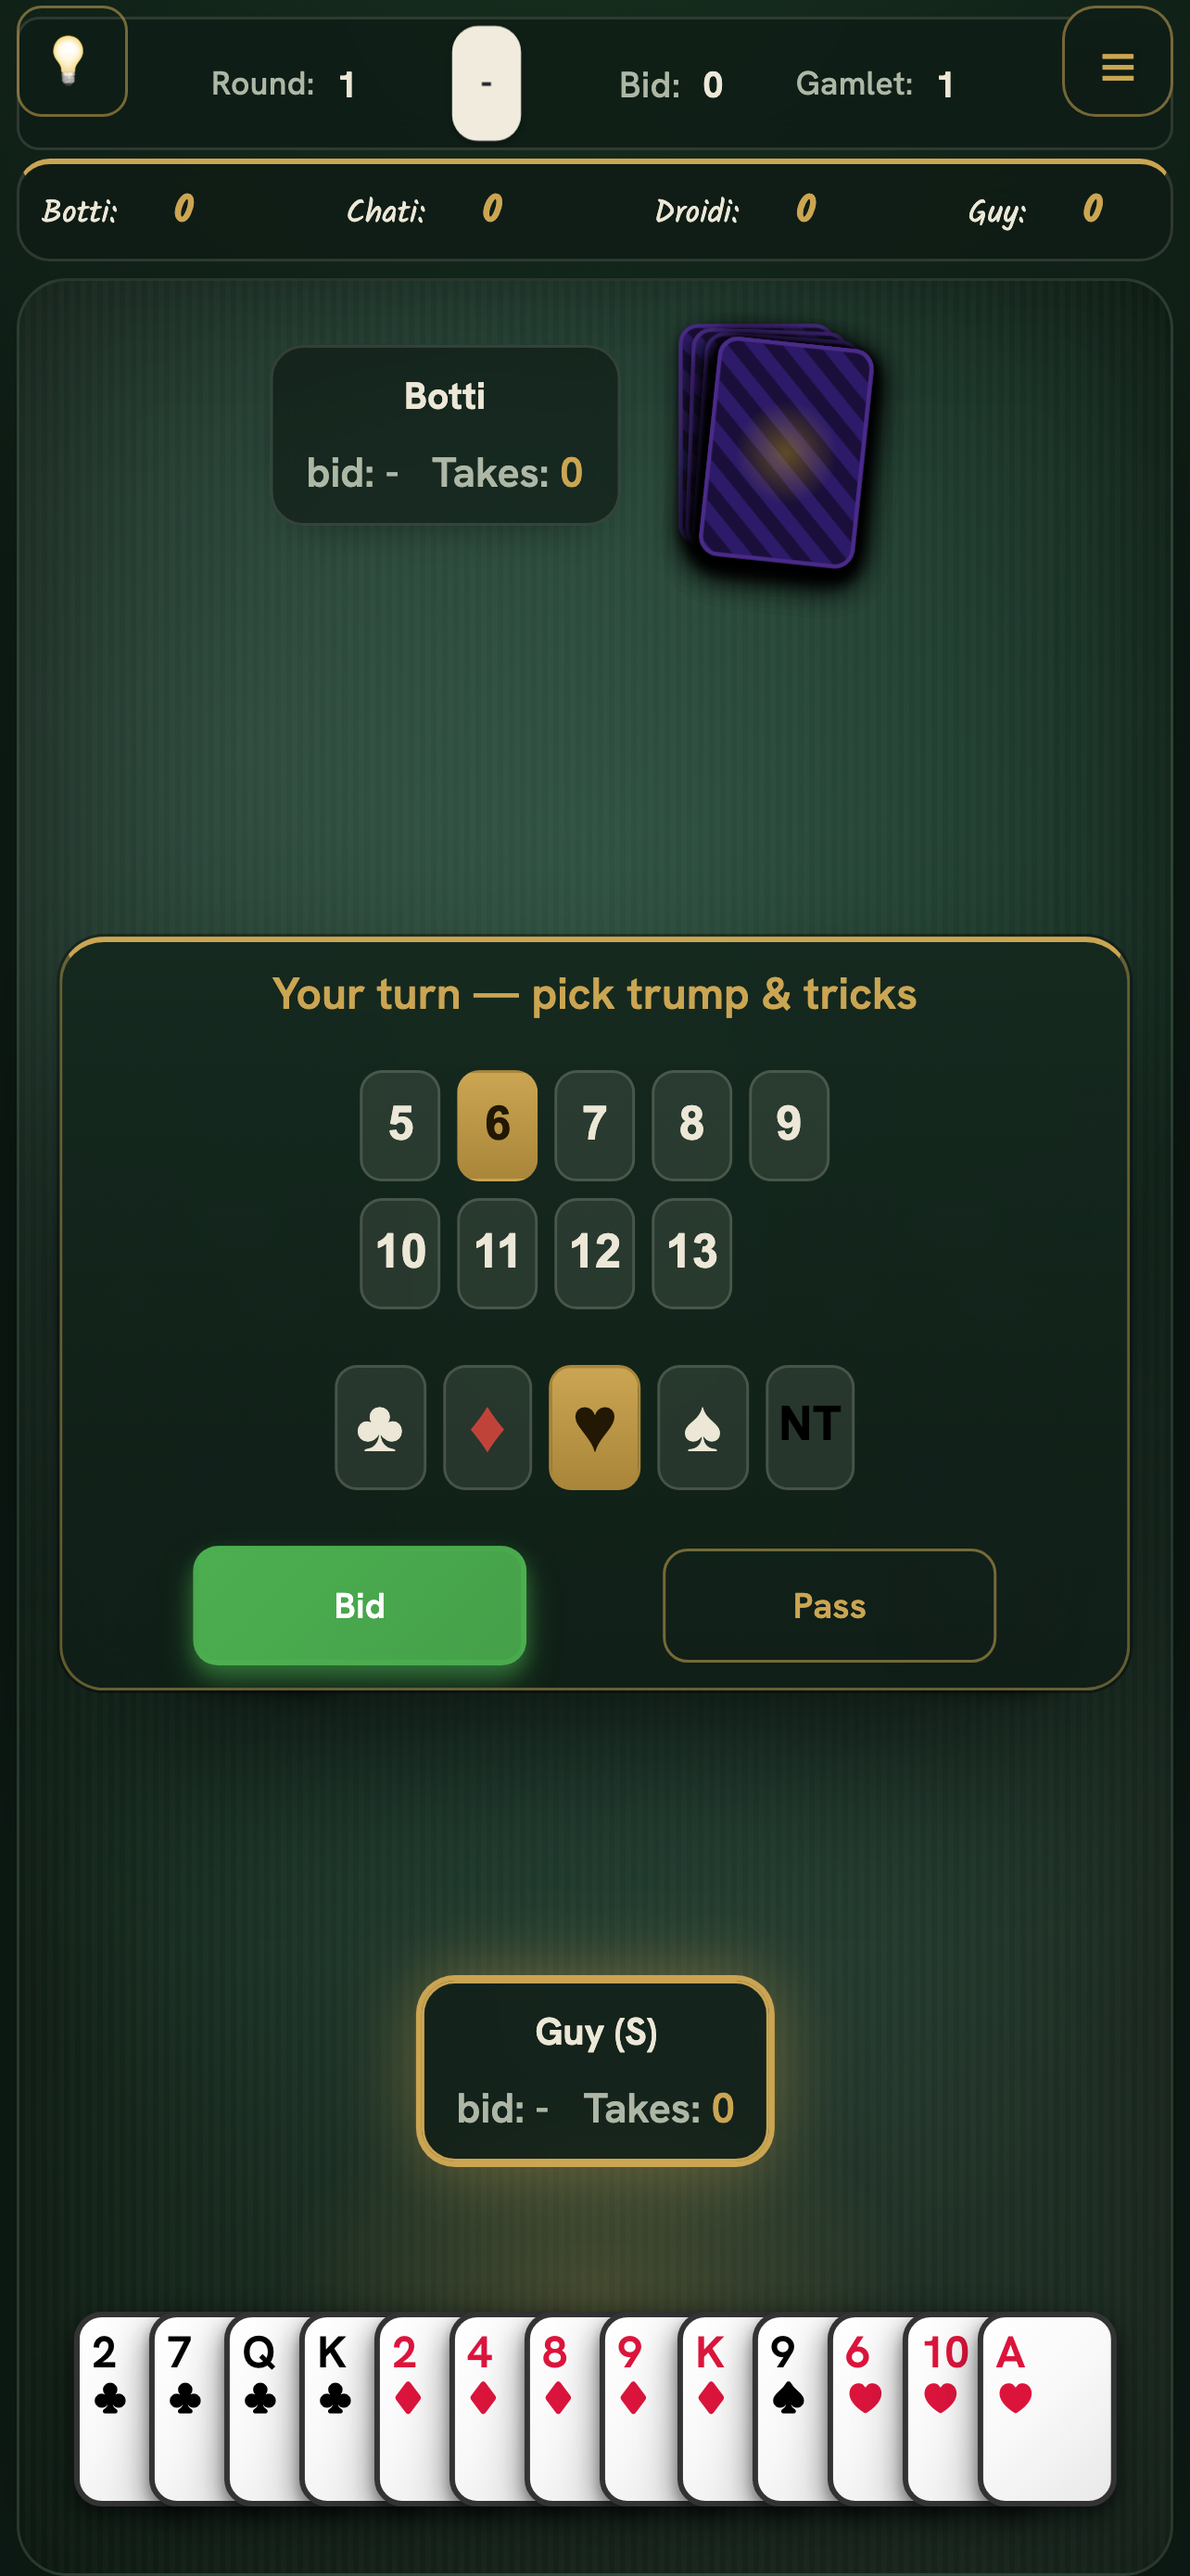
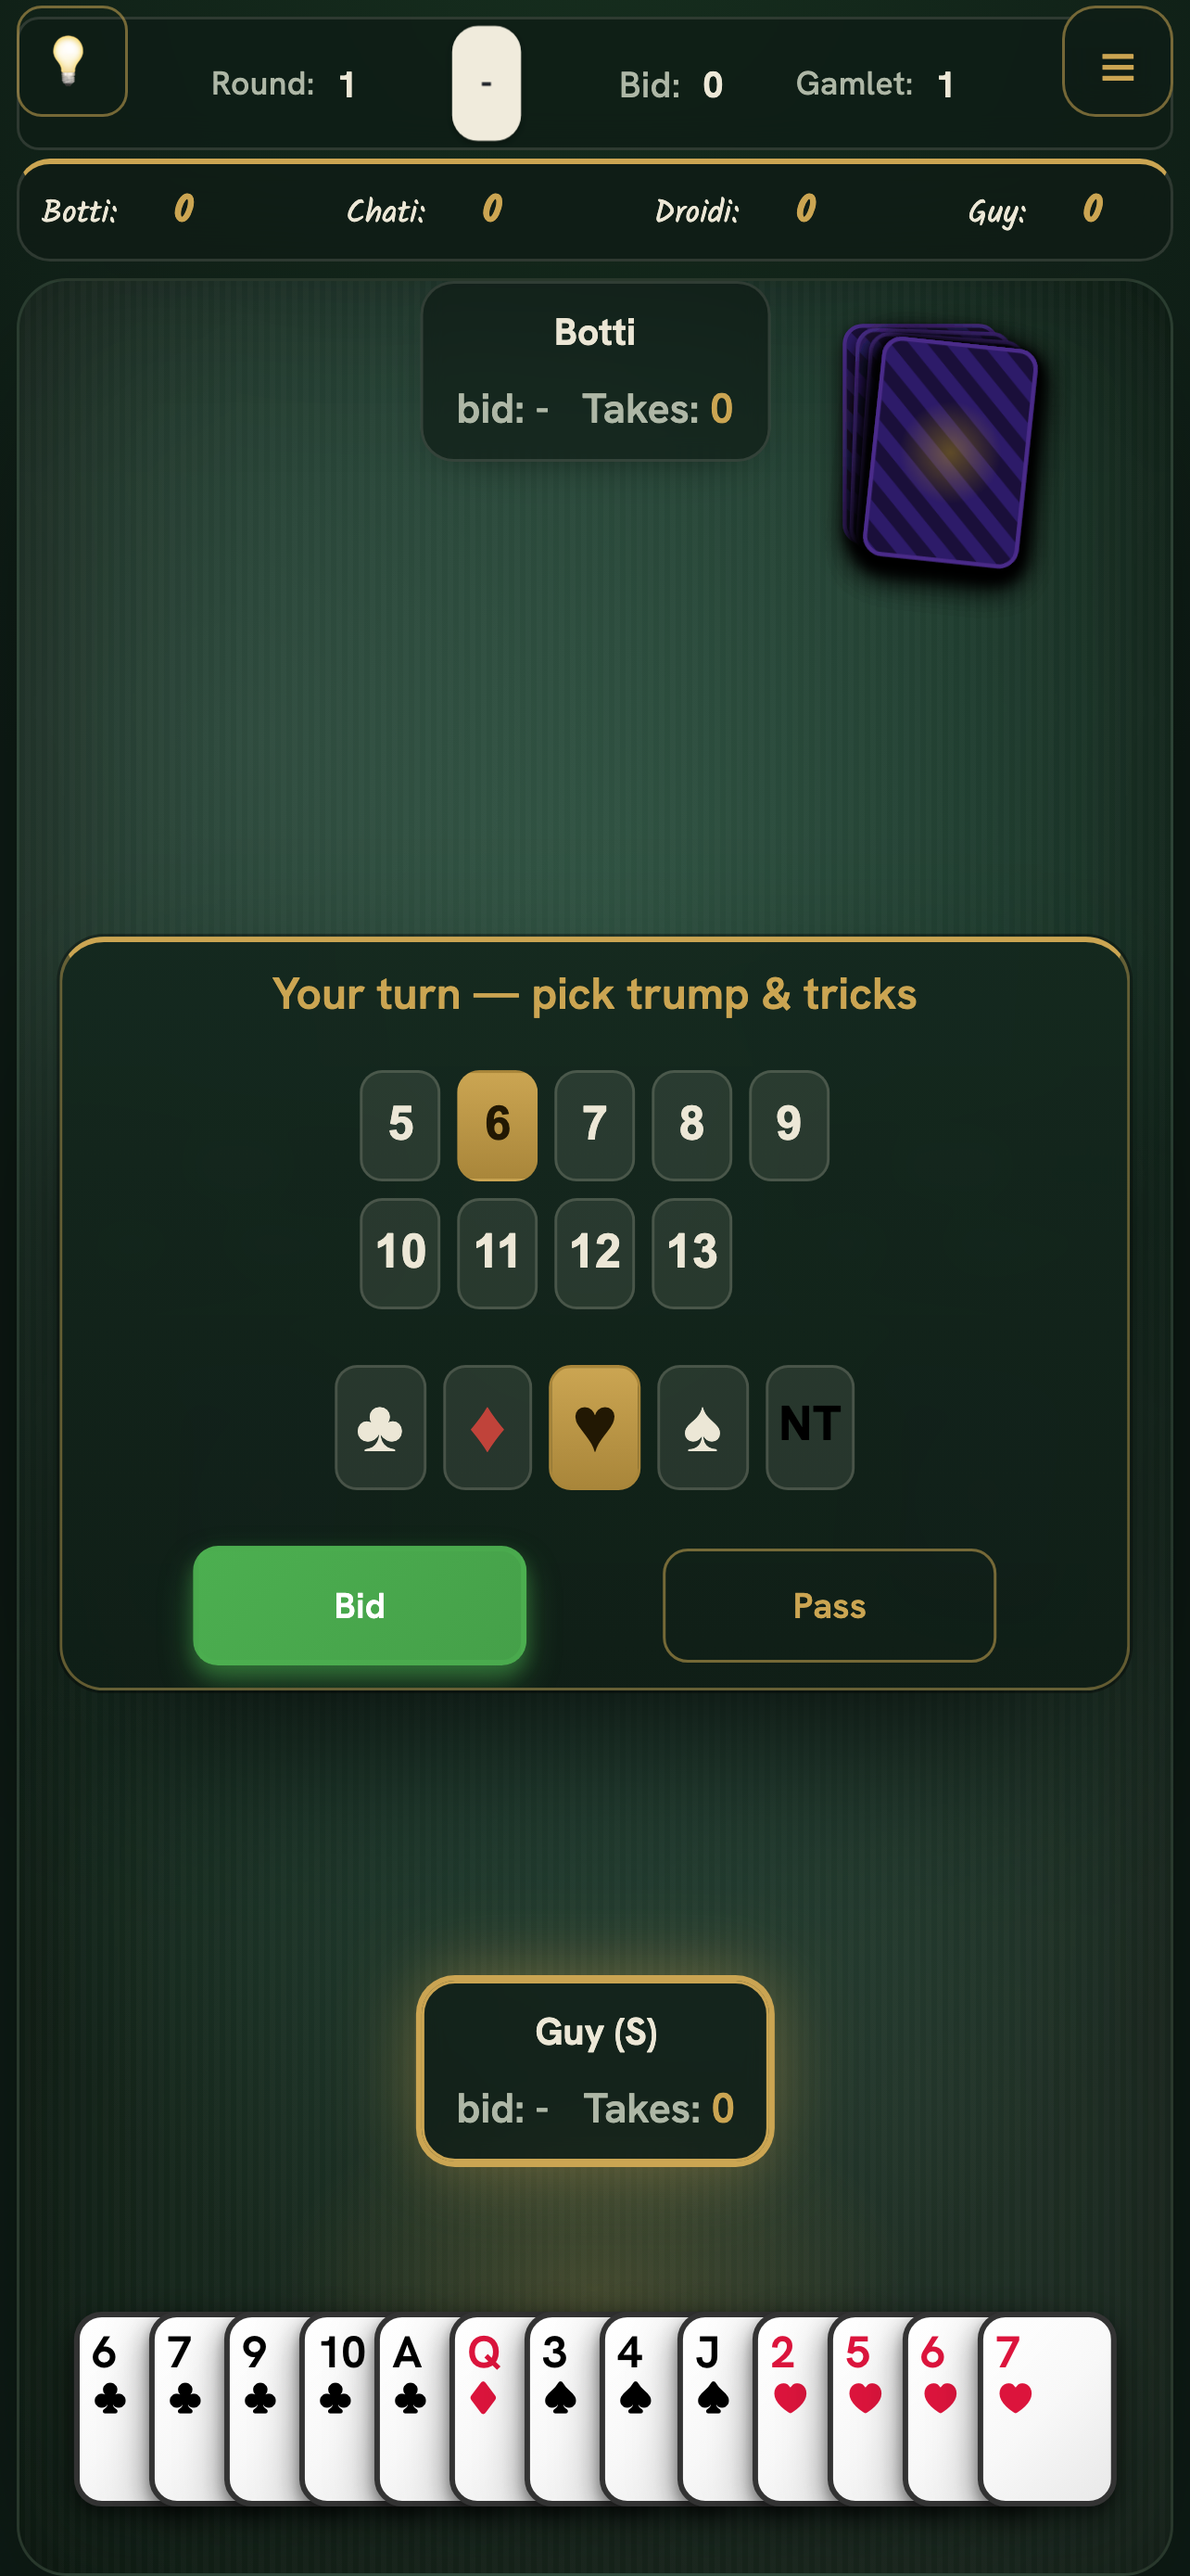
fix(layout): put every seat plate on the table's axis
The north plate sat ~54px left of centre and the two side plates ~5px off
the Deal button, which is obvious pre-deal when the button is the only thing
on the felt (and the south plate is directly below north for comparison).

Each bot seat is a flex line holding its nameplate AND its face-down stack,
so centring the seat centred the LINE — the plate ended up offset by half
the stack's width. North also carried a `.trick-counter` set to `position:
static` (unique to that seat), which is permanently empty — the visible
count is "Takes: N" inside the plate and the only code touching that element
clears it — and an empty element in the flex line still cost 10px.

The stacks and that counter are now positioned rather than in flow, so what
sits on each seat's axis is the nameplate itself. North's stack is top-
aligned rather than centred: the seat is flush with the top of the board and
the stack is taller than the plate, so centring pushed it under the board's
overflow:hidden edge.

Sideways, the two side plates aligned to .center-area's centre, but
.trick-area carried `margin-bottom: 20px` (desktop only — both phone blocks
already zero it), making that box 20px taller than the square inside it. The
margin moves into .center-area's offset (-70 -> -80) so the element's box IS
the square, and .game-controls loses its own `50% - 5px` nudge. One number
now positions the square, the Deal button and both side plates: measured on
[…]

diff --git a/styles.css b/styles.css
@@ -429,7 +429,7 @@ h1 {
 
 .north-player {
     top: 0px;
-    left: calc(50% + 50px);
+    left: 50%;
     transform: translateX(-50%);
     z-index: 10;
     flex-direction: row;
@@ -439,21 +439,57 @@ h1 {
     text-align: center;
 }
 
+/* The face-down stacks hang off their nameplate instead of sharing its flex
+   line, so the plate is what sits on the seat's axis. Sharing the line makes
+   the ROW the centred thing, which pushed the north plate ~54px left of the
+   board's centre — visibly off against the south plate directly below it.
+   Centred with auto margins rather than a transform: the theme scales these
+   stacks with `transform: scale(.72) !important` on small screens, which
+   would otherwise cancel the centring. */
+.north-player .bot-cards {
+    position: absolute;
+    left: calc(100% + 15px);
+    /* Top-aligned, not centred: the seat sits flush with the top of the board
+       and the stack is taller than the plate, so centring it pushed the stack
+       over the board's edge, where overflow:hidden cropped it. */
+    top: 0;
+}
+
+.west-player .bot-cards,
+.east-player .bot-cards {
+    position: absolute;
+    top: calc(100% + 10px);
+    left: 0;
+    right: 0;
+    margin: 0 auto;
+}
+
 .south-player {
     bottom: -10px;
     left: 50%;
     transform: translateX(-50%);
 }
 
+/* Same vertical axis as the trick square (.center-area sits at 50% - 70px, the
+   hand below it taking the difference), so the two side plates line up with the
+   middle of the table — and with the Deal button centred inside it — instead of
+   with the board's geometric centre. The plate's bottom margin is dropped here
+   because it used to space the stack below it; the stack is positioned now, so
+   the margin only pushed the plate off that line. */
+.west-player .player-info,
+.east-player .player-info {
+    margin-bottom: 0;
+}
+
 .west-player {
     left: 15px;
-    top: 50%;
+    top: calc(50% - 80px);
     transform: translateY(-50%);
 }
 
 .east-player {
     right: 15px;
-    top: 50%;
+    top: calc(50% - 80px);
     transform: translateY(-50%);
 }
 
@@ -995,9 +1031,14 @@ h1 {
 }
 
 /* Center Area */
+/* The trick square's centre is the table's axis: the two side nameplates and
+   the Deal button all line up on it. -80 rather than -70 because .trick-area's
+   20px bottom margin moved to this offset — with the margin, .center-area was
+   20px taller than the square it holds, so the square sat 10px above this
+   element's centre and anything aligned to the element missed the square. */
 .center-area {
     position: absolute;
-    top: calc(50% - 70px);
+    top: calc(50% - 80px);
     left: 50%;
     transform: translate(-50%, -50%);
     text-align: center;
@@ -1076,7 +1117,9 @@ h1 {
     position: relative;
     width: 280px;
     height: 280px;
-    margin-bottom: 20px;
+    /* No bottom margin: it is folded into .center-area's offset above so this
+       element's box IS the square, and one number positions both. */
+    margin-bottom: 0;
     display: flex;
     align-items: center;
     justify-content: center;
@@ -1590,7 +1633,10 @@ h1 {
 /* Game Controls */
 .game-controls {
     position: absolute;
-    top: calc(50% - 5px);
+    /* Dead centre of the trick square: the side nameplates align to the same
+       line, and pre-deal the Deal button is the only thing on the felt, so any
+       offset here reads as the plates being crooked. */
+    top: 50%;
     left: 50%;
     transform: translate(-50%, -50%);
     z-index: 10;
@@ -3248,13 +3294,17 @@ h1 {
         gap: 4px !important;
     }
 
-    /* East/West: closer to edges */
+    /* East/West: closer to edges. This layout pins .center-area by top edge
+       rather than the shared -80 offset, so the seats keep the line they were
+       tuned to here instead of following the desktop/portrait anchor. */
     .east-player {
         right: 4px !important;
+        top: calc(50% - 70px) !important;
     }
 
     .west-player {
         left: 4px !important;
+        top: calc(50% - 70px) !important;
     }
 
     .south-player {
@@ -3607,12 +3657,17 @@ h1 {
     pointer-events: none;
 }
 
-/* Special styling for human player trick counter */
+/* North's counter used to sit `static` in the seat's flex row, which is fine
+   when it has content and a 10px shove off-centre when it doesn't — and it
+   never does: the visible count is "Takes: N" inside the plate, and the only
+   code that touches this element clears it. Out of flow like every other
+   seat's, so an empty element can't move the nameplate. */
 .north-player .trick-counter {
-    position: static;
-    transform: none;
+    position: absolute;
+    left: calc(100% + 6px);
+    top: 50%;
+    transform: translateY(-50%);
     display: inline-block;
-    margin-left: 10px;
     color: #FFD700;
     font-weight: bold;
     font-size: 1.0em;
